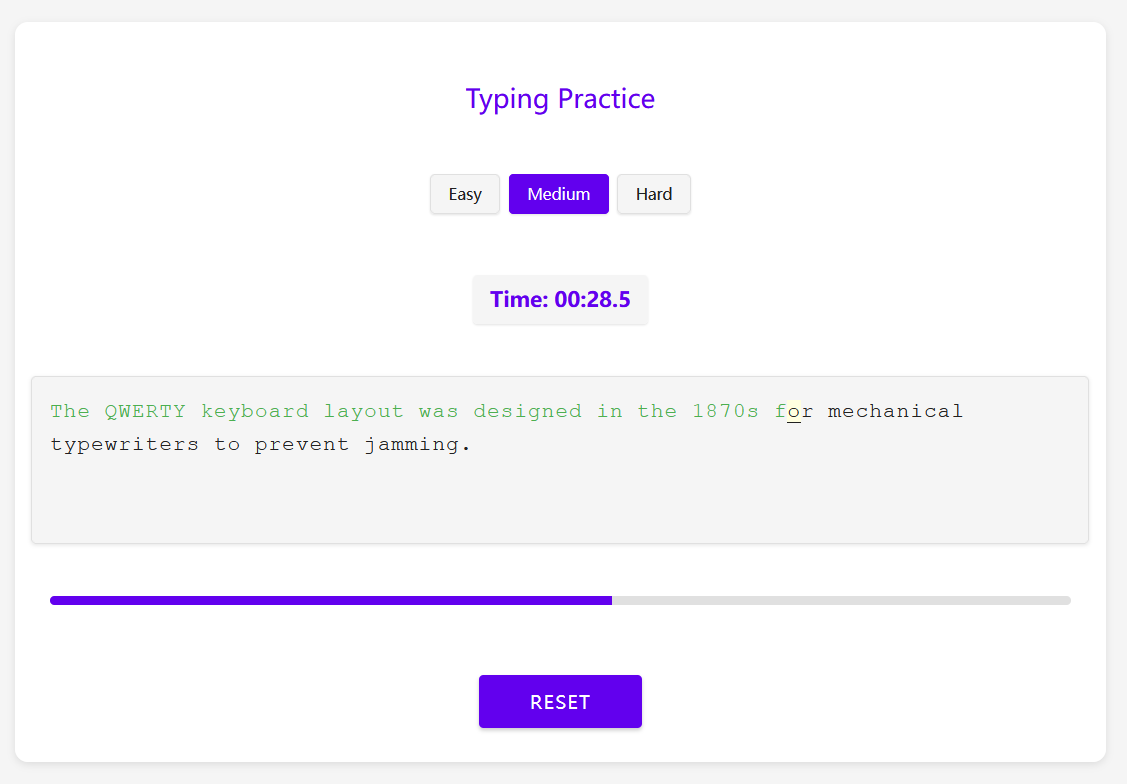
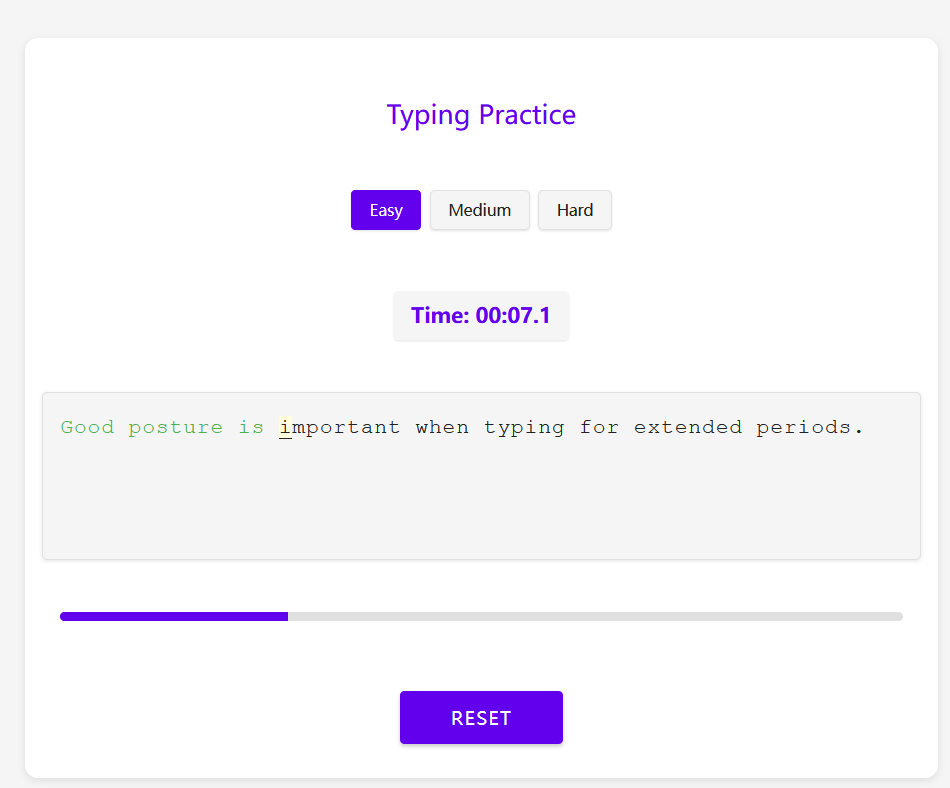
always show timer

diff --git a/src/App.jsx b/src/App.jsx
@@ -245,11 +245,7 @@ export default function App() {
                 </button>
             </div>
 
-            {(status === 'started' || status === 'finished') && (
-                <div className="timer">
-                    Time: {formatTime(elapsedTime)}
-                </div>
-            )}
+            <div className="timer">Time: {formatTime(elapsedTime)}</div>
 
             <div
                 className="text-display"
